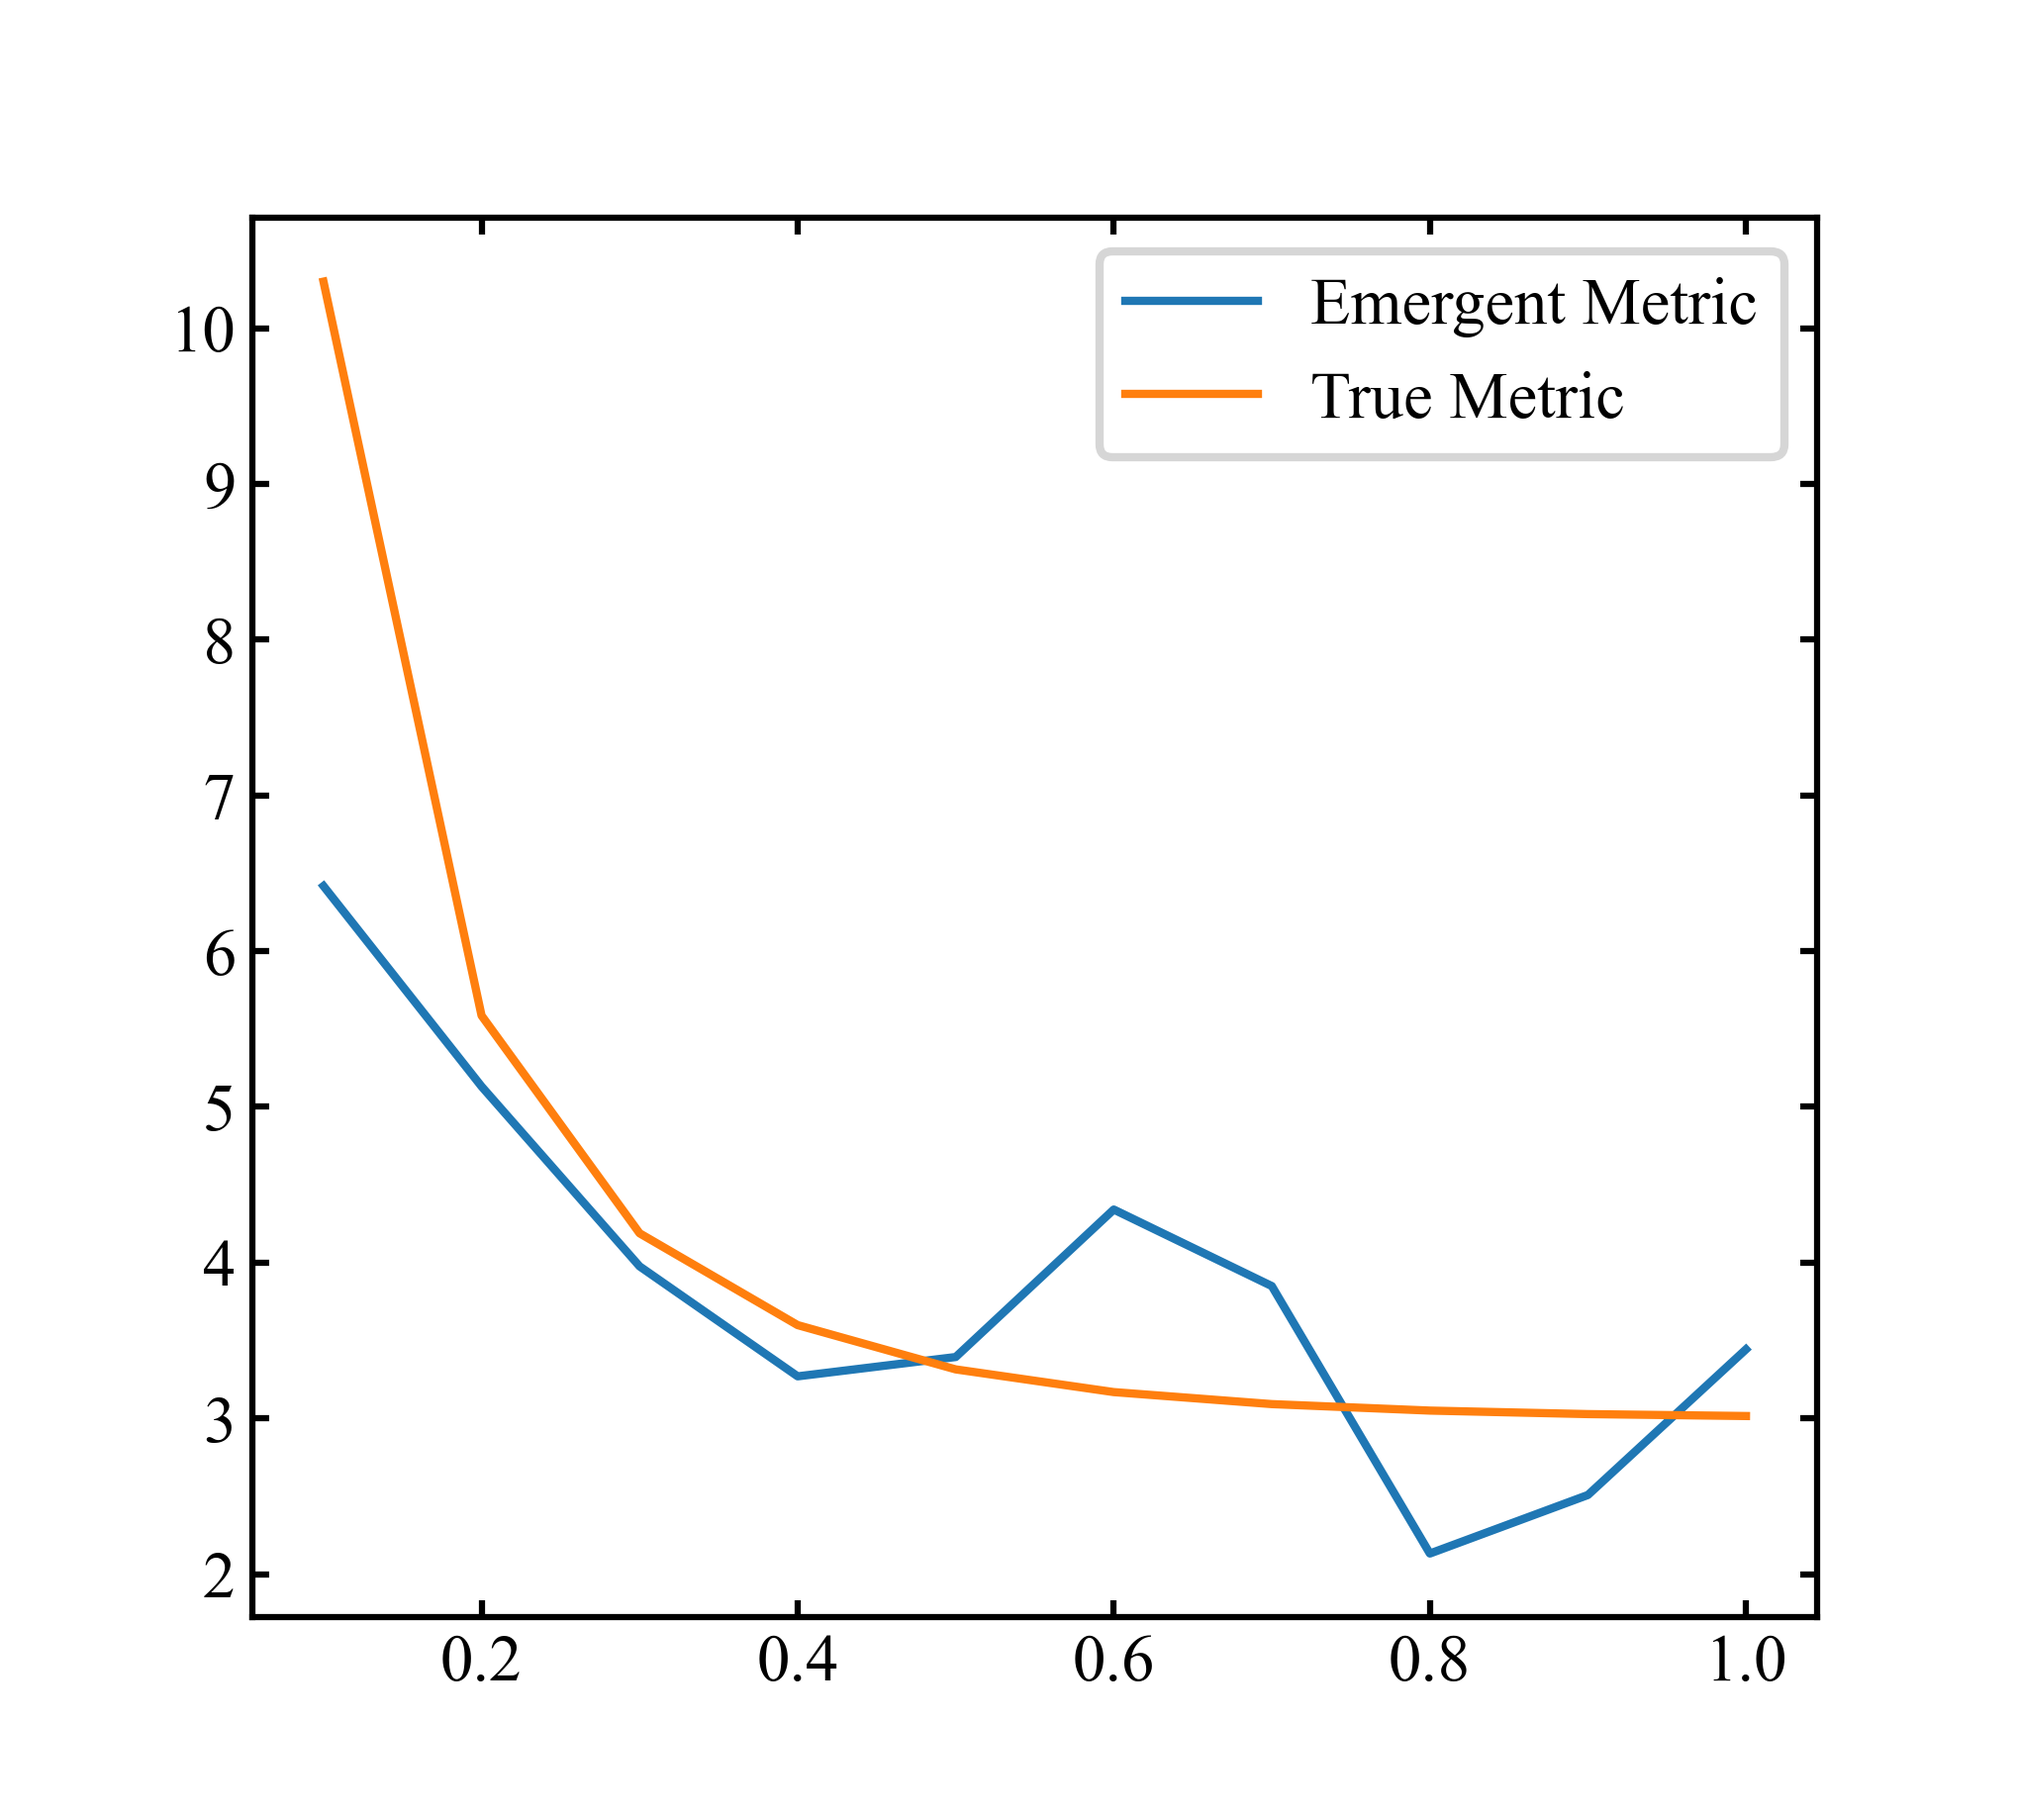
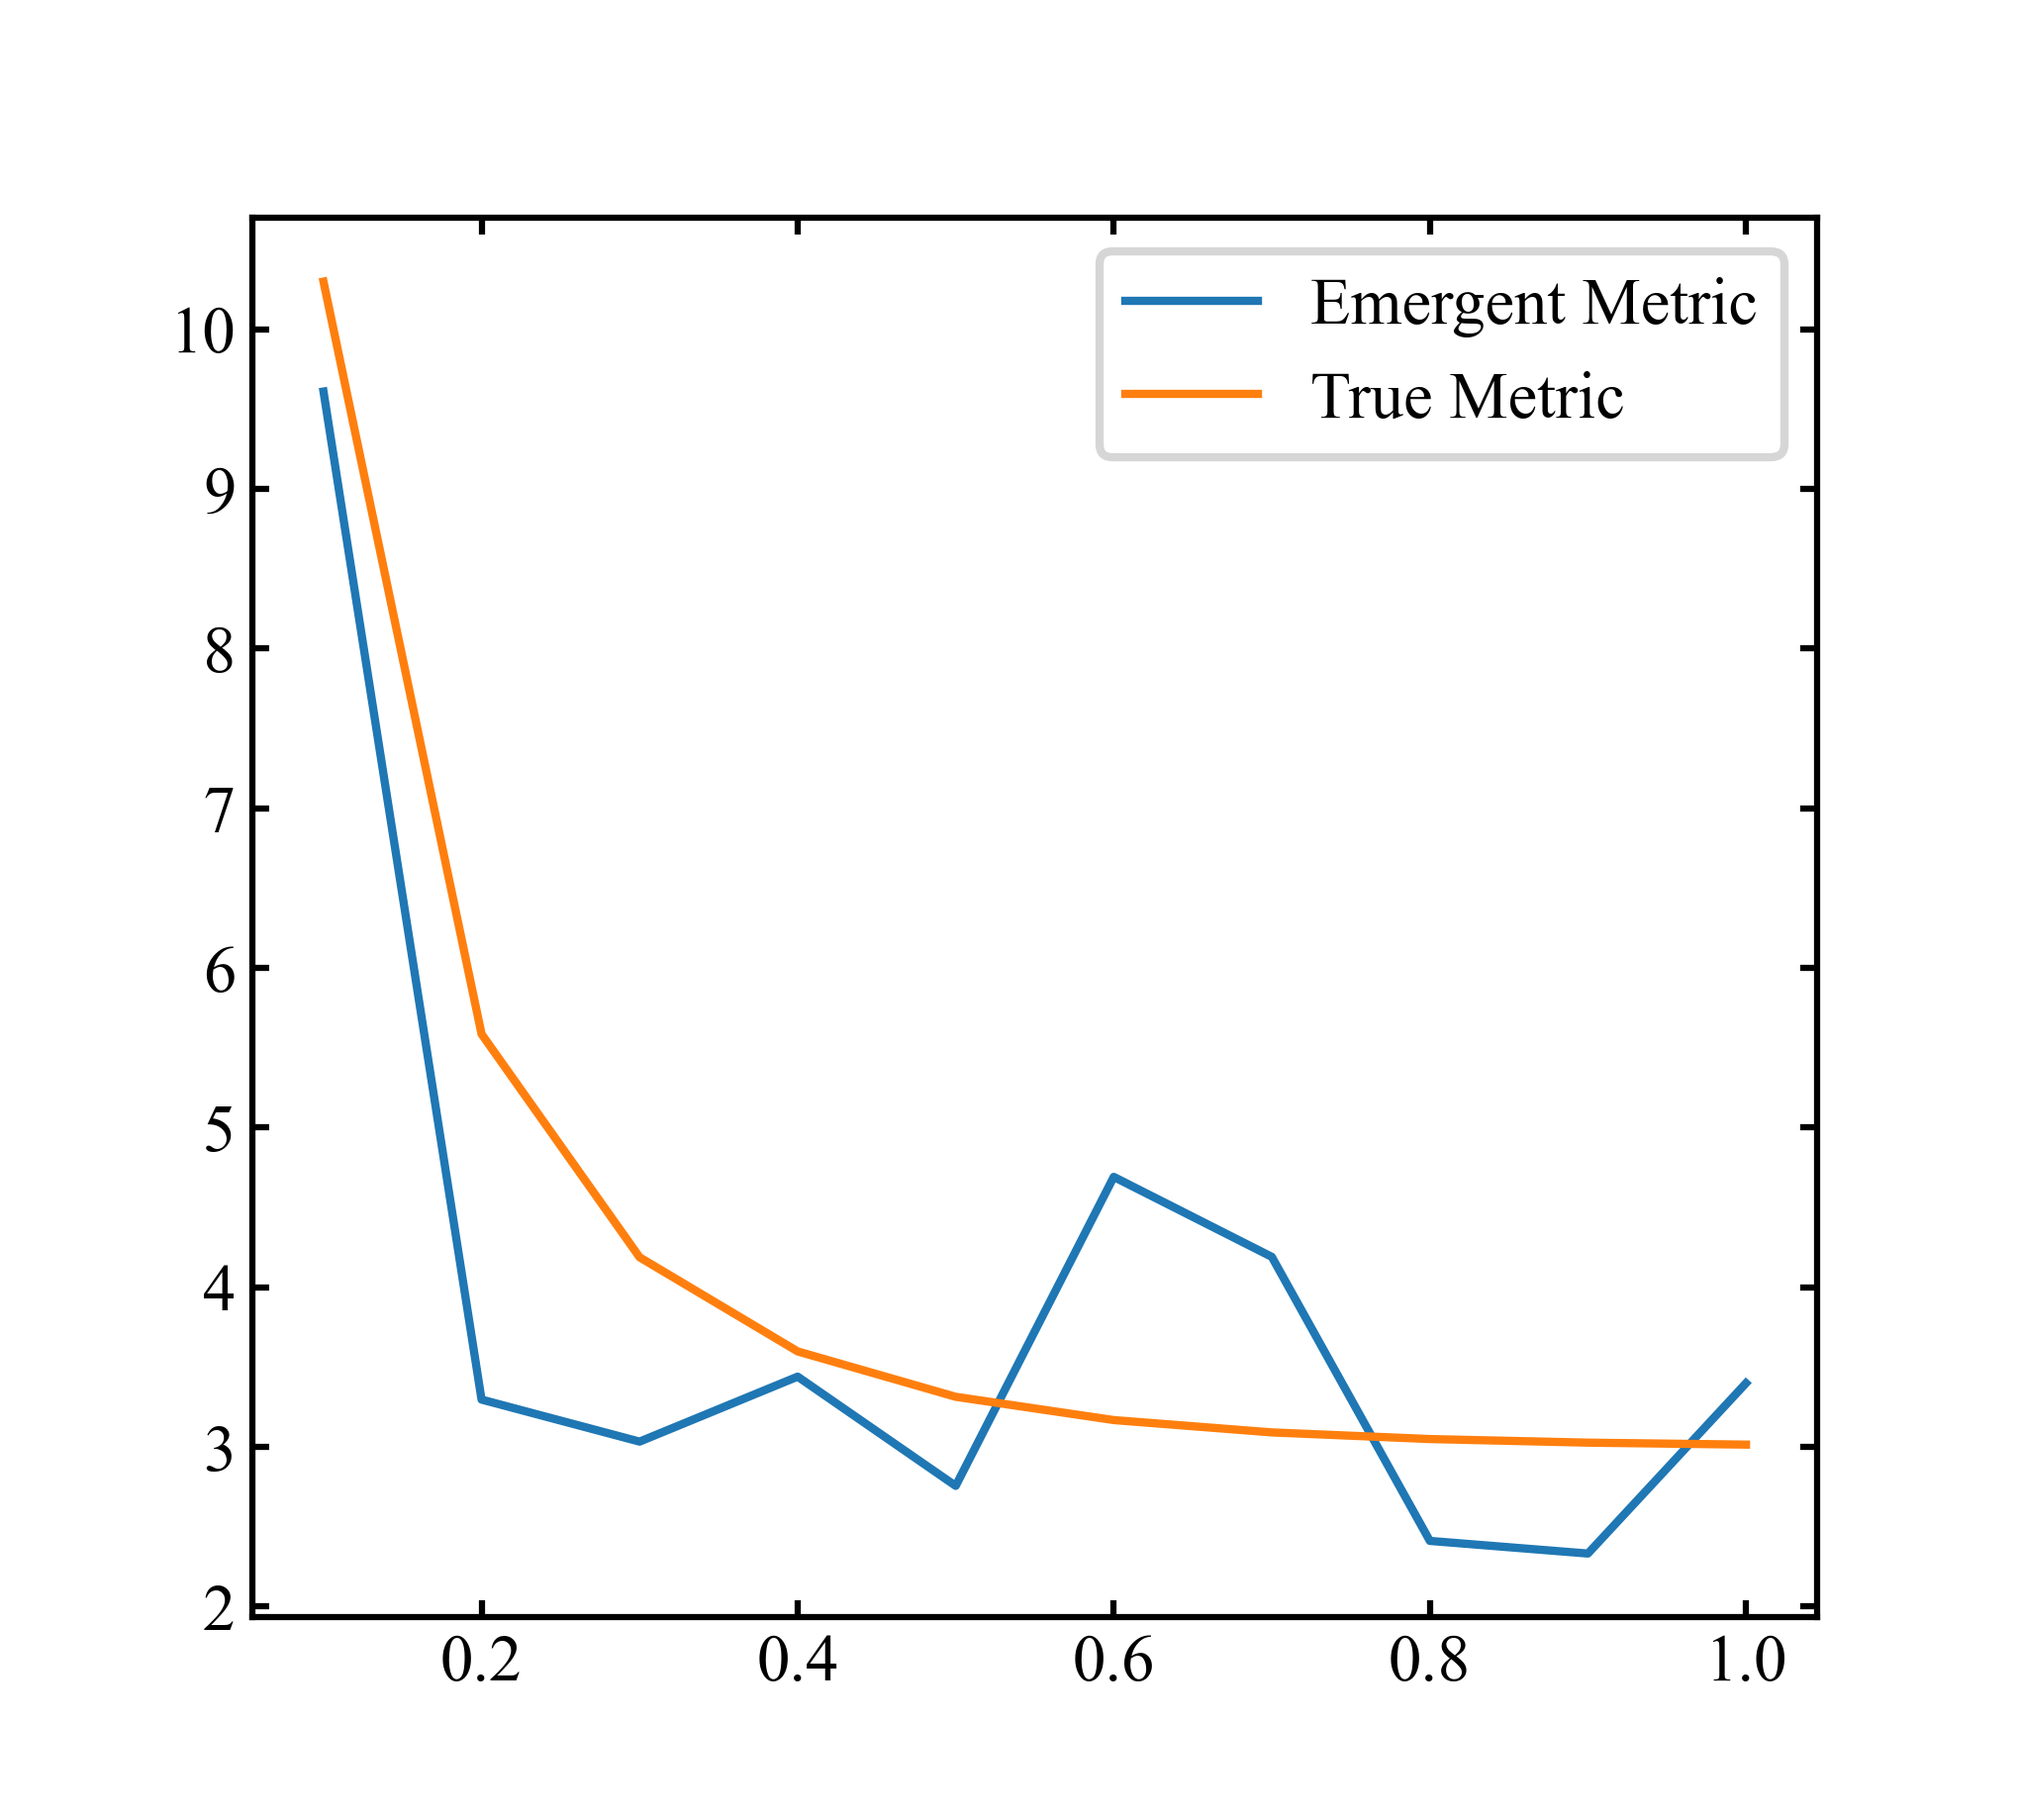
Hyperparameter tuning

diff --git a/main.py b/main.py
@@ -36,7 +36,7 @@ print('Initial metric extracted')
 
 # Set loss function & optimizer
 criterion = NN.L1Loss(reduction = 'sum')
-optimizer = optim.Adam(model.parameters(), lr = 0.0009)
+optimizer = optim.Adam(model.parameters(), lr = 0.0001)
 
 epochs = 10000
 losses = []
